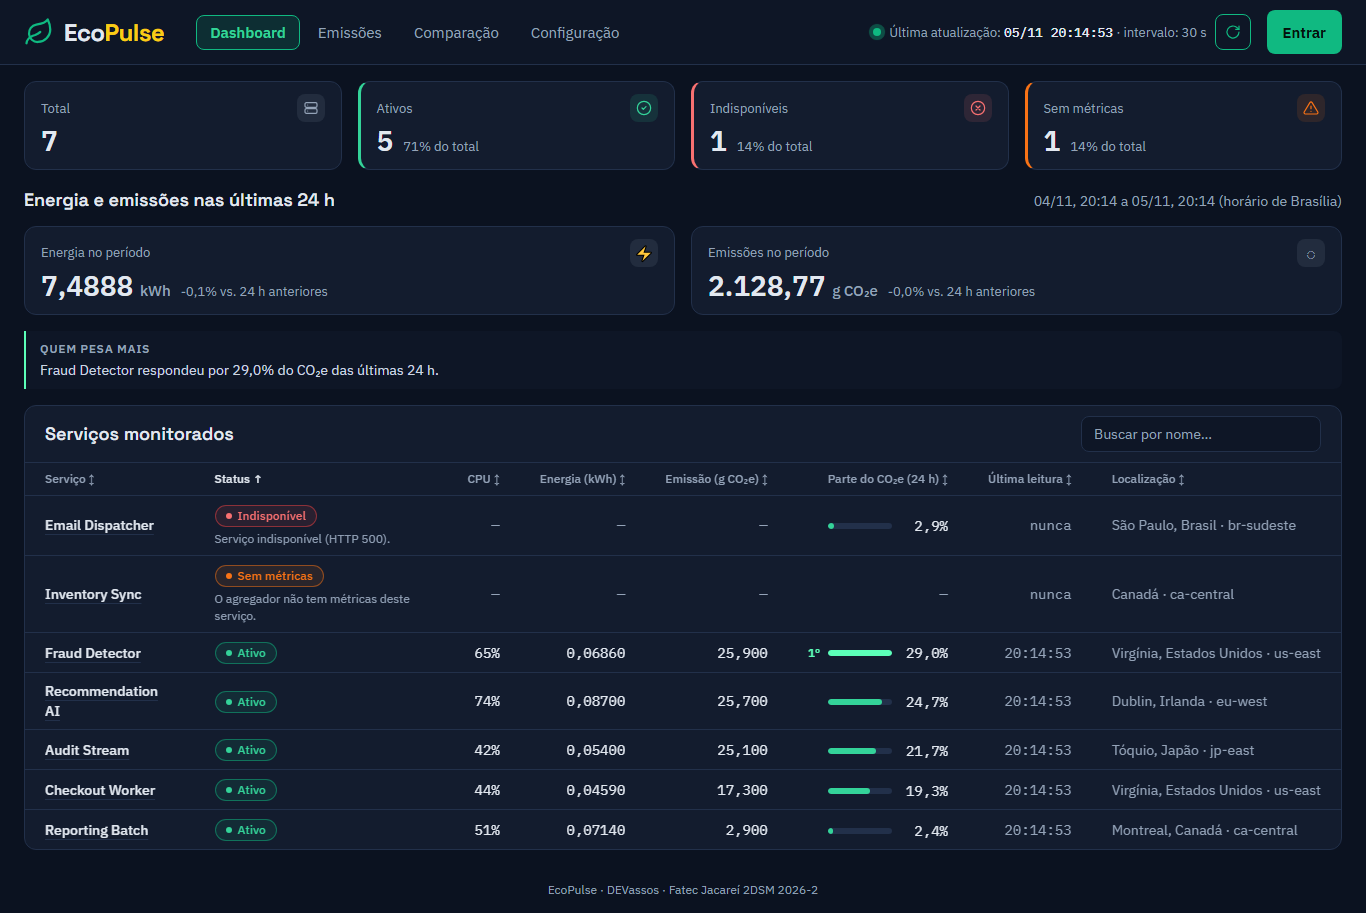
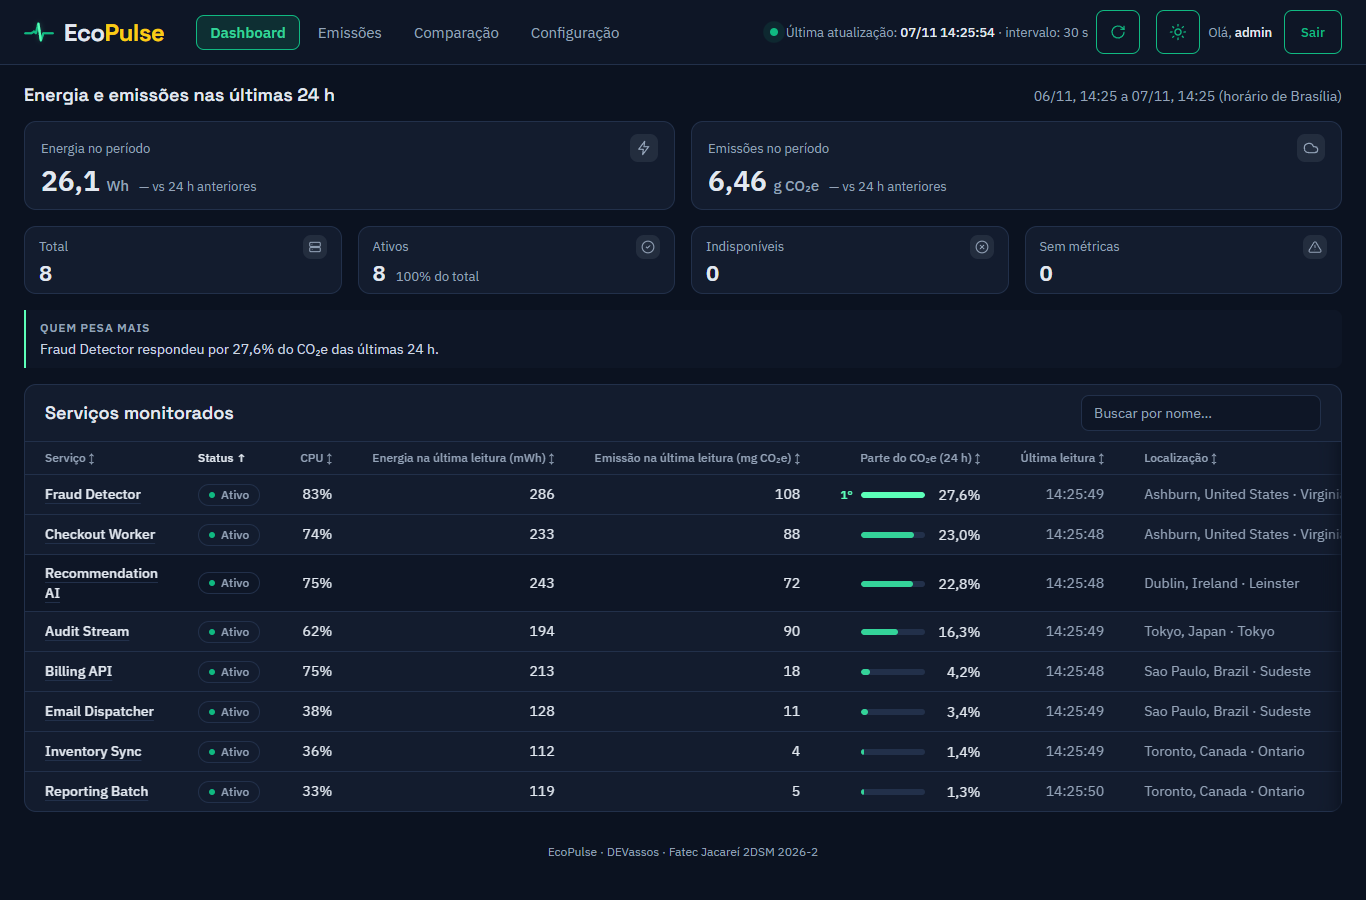
docs(frontend): ranking no backend real e print novo (#260) [RF14]
O README raiz dizia que a tela dependia do backend falso; a rota
entrou pelo PR #291. O print e a legenda passam a ser do compose em
07/11. No frontend/README, os passos 7, 9, 70 e 72 descrevem o que a
tela mostra ("—" com a dica ao passar o mouse, cinza com o backend
parado, ranking não pedido no cenário erro) e a soma de 100,0%.

diff --git a/frontend/README.md b/frontend/README.md
@@ -120,12 +120,12 @@ A API devolve energia em kWh e CO₂e em gramas. A tela escolhe a unidade em `sr
 ## Parte do CO₂e nas últimas 24 h (RF14, #260)
 
 - A tabela tem a coluna **Parte do CO₂e (24 h)**: quanto cada serviço respondeu do CO₂e das últimas 24 h. Ela vem de `GET /api/services/ranking?metric=co2e&from=&to=` (contrato aprovado na #50), buscada por `fetchServicesRanking` (`src/services/ranking.service.ts`) a cada ciclo do polling, no mesmo período do painel de indicadores.
-- `utils/ranking.ts` divide o CO₂e de cada serviço pela soma dos serviços com cálculo, então as partes somam 100% (com uma casa, ±0,1). Serviço sem cálculo no período mostra "—" e não entra na soma; com total zero, todos os que têm coleta no período aparecem com 0,0%, porque é um cálculo válido.
+- `utils/ranking.ts` divide o CO₂e de cada serviço pela soma dos serviços com cálculo e arredonda as partes a uma casa pelo método do maior resto, então a coluna exibida soma exatamente 100,0% (arredondar linha a linha poderia dar 99,9 ou 100,1 com 8 serviços). Serviço sem cálculo no período mostra "—" e não entra na soma; com total zero, todos os que têm coleta no período aparecem com 0,0%, porque é um cálculo válido.
 - A barra segue `docs/identidade-visual.md` § Barras de ranking: trilho em `--border`, barra em `--accent-hover`, e o 1º lugar em `--neon` com o rótulo **1º**. A barra é proporcional ao 1º, que fica cheio; o número ao lado é a parte no total.
 - Acima da tabela, **Quem pesa mais** diz, com o período: "Fraud Detector respondeu por 29,0% do CO₂e das últimas 24 h.", e some quando a parte é 0,0%.
 - **Três ausências diferentes**, cada uma com o seu texto: "ranking do período indisponível" (a busca do ranking falhou e não houve resposta anterior), "serviço fora do ranking" (a resposta do período não trouxe o serviço) e "sem cálculo no período" (o serviço está no ranking, sem CO₂e calculado nas 24 h). O tooltip repete a explicação de cada uma.
 - **Ordem estável:** a ordem inicial continua pela gravidade do estado (#203), mas, dentro do mesmo estado, segue o CO₂e das 24 h, não a leitura instantânea, que mudava a cada 30 s. O nome desempata. Enquanto o ranking não chega, vale a emissão da última leitura. Clicar no cabeçalho **Parte do CO₂e (24 h)** ordena pelo período, e as linhas sem parte ficam no fim nas duas ordens.
-- A resposta é conferida como as outras (#161): um campo fora do contrato — inclusive `metric` diferente da pedida — recusa o ranking inteiro, com o `ErrorState` e **Tentar novamente**. Numa falha do ranking com resposta anterior na tela, a última parte continua em cinza, sem o neon, a frase perde o destaque e o aviso começa com "Ranking de CO₂e do período: ", para não se confundir com a falha da lista de serviços.
+- A resposta é conferida como as outras (#161): um campo fora do contrato — inclusive `metric` diferente da pedida — recusa o ranking inteiro, com o `ErrorState` e **Tentar novamente**. As posições também são conferidas: quem tem a métrica vem primeiro, com 1, 2, 3… na ordem da lista e valores que não crescem, e quem não tem fica no fim com `position: null`; senão o "1º" iria para uma linha sem a barra cheia. Numa falha do ranking com resposta anterior na tela, a última parte continua em cinza, sem o neon, a frase perde o destaque e o aviso começa com "Ranking de CO₂e do período: ", para não se confundir com a falha da lista de serviços. Quando é a lista que falha (backend fora do ar), o ranking não é buscado de novo, e a coluna e a frase ficam em cinza do mesmo jeito, junto com os outros números da tabela (#261).
 - No modo demonstração, o ranking sai da leitura ilustrativa de cada serviço, como se ela se repetisse a cada 30 s nas 24 h.
 
 ## Página Emissões (#190)
@@ -257,9 +257,9 @@ npm run mock        # backend falso em http://localhost:3000 (desenvolvimento)
 4. Na raiz, `cp .env.example .env`. Em um terminal `npm run mock`; em outro `npm run dev` → a tela de login abre. Entrar com `admin@ecopulse.local` / `admin1234` (nos passos seguintes com o mock ou o backend real, a sessão já está aberta; se o mock for reiniciado, entrar de novo) → a faixa some e a tabela mostra os serviços de `GET /api/services` (o terminal do mock registra a chamada como `GET /services`, sem o prefixo `/api`). Abaixo dos cards de estado, o painel **Energia e emissões nas últimas 24 h** mostra os totais do mock com a variação, sem nenhum aviso de erro.
 5. Na tabela: cada serviço aparece com região, cidade/país e status (Ativo, Indisponível, Sem métricas); sem métrica aparece "—". Localização mostra só as partes informadas (sem ", null"); sem nenhuma, aparece "—" e o serviço fica no fim ao ordenar por Localização. Com o backend real há um quarto status, **Removido**: o serviço saiu da lista de `GET /services` do agregador na última descoberta do worker e volta a Ativo quando reaparece. O backend falso não tem esse caso.
 6. Digitar "check" na busca → só **Checkout Worker**; buscar algo inexistente → "Nenhum serviço com … no nome". Com 390 px de largura → cada serviço mostra a emissão da última leitura sob o nome ("0,449 g CO₂e"), a borda direita da tabela tem uma sombra enquanto há colunas escondidas e ela some ao rolar até o fim; o selo mostra "intervalo: 30 s" e o horário sem quebrar no meio (#263).
-7. Ao abrir, a tabela já vem ordenada por gravidade: Status do mais grave para o menos grave (Indisponível, Sem métricas, Ativo, Removido), com desempate pela maior emissão. O título **Status** mostra ↑ (`aria-sort="ascending"`), e as duas primeiras linhas são **Email Dispatcher** (Indisponível) e **Inventory Sync** (Sem métricas). Clicar nos títulos das colunas (Serviço, Status, CPU, Energia, Emissão, Última leitura, Localização) → ordena; clicar de novo inverte; serviços sem métrica ficam sempre no fim. Localização ordena pela região (depois país e cidade). Ordenar por **Emissão**, nos dois sentidos → um serviço **Removido** fica sempre na última linha, com os números em cinza. Com a tela aberta, parar o backend (`docker compose stop backend`) e clicar em **Atualizar agora** → além da faixa laranja, os números da tabela ficam em cinza; `docker compose start backend` e **Tentar novamente** → voltam à cor normal (#261).
+7. Ao abrir, a tabela já vem ordenada por gravidade: Status do mais grave para o menos grave (Indisponível, Sem métricas, Ativo, Removido), com desempate pela maior emissão. O título **Status** mostra ↑ (`aria-sort="ascending"`), e as duas primeiras linhas são **Email Dispatcher** (Indisponível) e **Inventory Sync** (Sem métricas). Clicar nos títulos das colunas (Serviço, Status, CPU, Energia, Emissão, Última leitura, Localização) → ordena; clicar de novo inverte; serviços sem métrica ficam sempre no fim. Localização ordena pela região (depois país e cidade). Ordenar por **Emissão**, nos dois sentidos → um serviço **Removido** fica sempre na última linha, com os números em cinza. Com a tela aberta, parar o backend (`docker compose stop backend`) e clicar em **Atualizar agora** → além da faixa laranja, os números da tabela ficam em cinza, inclusive a coluna **Parte do CO₂e (24 h)**, sem o neon do 1º, e a frase **Quem pesa mais** perde a borda verde; `docker compose start backend` e **Tentar novamente** → voltam à cor normal (#261, #260).
 8. `MOCK_SERVICES=vazio npm run mock` e recarregar → "Nenhum serviço monitorado ainda".
-9. `MOCK_SERVICES=erro npm run mock` e recarregar → sem nenhum dado na tela, aparece um aviso grande "Falha simulada no backend falso." (a mensagem vem do corpo do erro) com **Tentar novamente**: a lista de serviços, o painel de indicadores e o ranking de CO₂e falham juntos, como no backend real com o banco fora do ar, e o aviso é um só (#271).
+9. `MOCK_SERVICES=erro npm run mock` e recarregar → sem nenhum dado na tela, aparece um aviso grande "Falha simulada no backend falso." (a mensagem vem do corpo do erro) com **Tentar novamente**: a lista de serviços e o painel de indicadores falham juntos, como no backend real com o banco fora do ar, e o aviso é um só (#271). O ranking de CO₂e nem é pedido, porque espera a primeira lista: o terminal do mock não registra `GET /services/ranking`.
 10. Com dados carregados, o cabeçalho mostra o selo **"Última atualização: dd/mm HH:MM:SS"** com um ponto verde pulsando (sistema ativo); com "reduzir movimento" ligado no sistema, o ponto fica parado. A cada horário novo no selo, o logo pulsa uma vez: a folha vira uma linha de batimento com brilho neon e volta (cerca de 2,4 s). Ele não pulsa quando a atualização falha, em **Configuração** (sem polling) nem com "reduzir movimento", e dois cliques seguidos em **Atualizar agora** não reiniciam o pulso no meio. Apertar Tab logo depois de abrir a página → aparece **Pular para o conteúdo** no canto; Enter leva o foco ao conteúdo, pulando o menu (#262).
 11. Com o mock no ar, carregar o dashboard, depois subir o mock com `MOCK_SERVICES=erro` e clicar em **Atualizar agora** → os dados continuam na tela, o selo fica laranja (**"Desatualizado desde …"**) e, acima dos cards, aparece a faixa compacta laranja "Falha simulada no backend falso. Mostrando dados de HH:MM:SS." com **Tentar novamente**, no lugar do aviso grande.
 12. Com o mock no ar com `MOCK_REFRESH_INTERVAL_SECONDS=5 npm run mock` (PowerShell: `$env:MOCK_REFRESH_INTERVAL_SECONDS='5'; npm run mock`): a cada 5 s o horário do selo muda e o terminal do mock registra um novo `GET /services`; os valores de CPU e energia mudam na tabela **sem recarregar a página**. O selo mostra "intervalo: 5 s".
@@ -322,6 +322,6 @@ npm run mock        # backend falso em http://localhost:3000 (desenvolvimento)
 67. Em `/comparacao` e `/emissoes` → energia em ciano e CO₂e em verde nos dois lugares; só o maior CO₂e da Comparação fica laranja, e a média do gráfico de Emissões é uma linha cinza tracejada.
 68. Com o `.env` do passo 4, `MOCK_SERVICES=resumo-texto npm run mock` e recarregar o dashboard → o painel de energia e emissões some e, numa faixa no topo da página (acima dos cards de estado), aparece "O servidor respondeu num formato inesperado (energyKwh). Avise a equipe do backend." com **Tentar novamente**; a tabela e os cards de estado continuam normais.
 69. `MOCK_SERVICES=comparacao-sem-id npm run mock`, abrir **Comparação**, marcar dois serviços e clicar em **Comparar** → "O servidor respondeu num formato inesperado (services[0].id)…", sem tabela nem gráficos. Com o mock normal, o painel do dashboard e a comparação voltam a aparecer como antes.
-70. Com o `.env` do passo 4 e o mock normal no ar, abrir o dashboard → a tabela tem a coluna **Parte do CO₂e (24 h)**: a soma das porcentagens dá 100% (±0,1), o **Fraud Detector** traz o rótulo **1º** com a barra cheia em neon, e o **Inventory Sync** mostra "sem cálculo no período" (serviço que está no ranking e não tem CO₂e calculado nas 24 h). Acima da tabela, **Quem pesa mais** diz "Fraud Detector respondeu por 29,0% do CO₂e das últimas 24 h.", com a mesma porcentagem da coluna. O terminal do mock registra `GET /services/ranking` a cada ciclo (#260).
+70. Com o `.env` do passo 4 e o mock normal no ar, abrir o dashboard → a tabela tem a coluna **Parte do CO₂e (24 h)**: a soma das porcentagens dá 100,0%, o **Fraud Detector** traz o rótulo **1º** com a barra cheia em neon, e o **Inventory Sync** mostra "—" e, ao passar o mouse, "No ranking, mas sem CO₂e calculado nas últimas 24 h" (o leitor de tela lê "sem cálculo no período"). Acima da tabela, **Quem pesa mais** diz "Fraud Detector respondeu por 29,0% do CO₂e das últimas 24 h.", com a mesma porcentagem da coluna. O terminal do mock registra `GET /services/ranking` a cada ciclo (#260).
 71. Clicar em **Atualizar agora** duas vezes → a ordem das linhas não muda. Clicar no cabeçalho **Parte do CO₂e (24 h)** → a tabela ordena do maior para o menor e, no segundo clique, do menor para o maior; as linhas sem parte ficam no fim nas duas ordens.
-72. Parar o mock e subir `MOCK_SERVICES=ranking-instavel npm run mock`, entrar de novo (reiniciar o mock invalida a sessão, #257) e abrir o dashboard → as partes aparecem na primeira carga e, no ciclo seguinte, ficam cinzas e sem neon, a frase **Quem pesa mais** perde o destaque e o aviso "Ranking de CO₂e do período: …" aparece com **Tentar novamente**, com a tabela intacta. Com `MOCK_SERVICES=ranking-falha`, a coluna mostra "ranking do período indisponível" desde a primeira carga e o restante do painel continua funcionando.
+72. Parar o mock e subir `MOCK_SERVICES=ranking-instavel npm run mock`, entrar de novo (reiniciar o mock invalida a sessão, #257) e abrir o dashboard **sem recarregar a página** (só a primeira chamada do ranking responde; recarregar a gasta e a coluna cai direto em "—") → as partes aparecem na primeira carga e, no ciclo seguinte, ficam cinzas e sem neon, a frase **Quem pesa mais** perde o destaque e o aviso "Ranking de CO₂e do período: …" aparece com **Tentar novamente**, com a tabela intacta. Com `MOCK_SERVICES=ranking-falha`, a coluna mostra "—" em todas as linhas desde a primeira carga e, ao passar o mouse, "Ranking de CO₂e das últimas 24 h indisponível: a coluna volta na próxima atualização" (o leitor de tela lê "ranking do período indisponível"); não há frase **Quem pesa mais**, e o restante do painel continua funcionando.

diff --git a/README.md b/README.md
@@ -66,11 +66,11 @@ O desenvolvimento acontece na branch `develop`; cada funcionalidade entra nesta 
 
   _Dashboard com o backend real (`docker compose`) em 06/11/2026, 10h02: 1,05 kWh e 258 g CO₂e nas últimas 24 h, na unidade que o valor pede, com "▼ 21,4%" e "▼ 22,1%" em verde, porque energia e CO₂e caíram em relação às 24 h anteriores (#271)._
 
-- **RF14 — Quem pesa mais no CO₂e (#260):** a tabela de serviços mostra a parte de cada serviço no CO₂e das últimas 24 h, com barra (o 1º lugar em neon e com o rótulo "1º"), e a frase acima dela diz quem respondeu por mais. Dentro de cada estado, a ordem segue o período e não muda a cada leitura. A API é `GET /api/services/ranking?metric=co2e&from=&to=`, com o contrato aprovado na #50; até o backend dela entrar, a tela funciona com o backend falso (`npm run mock`).
+- **RF14 — Quem pesa mais no CO₂e (#260):** a tabela de serviços mostra a parte de cada serviço no CO₂e das últimas 24 h, com barra (o 1º lugar em neon e com o rótulo "1º"), e a frase acima dela diz quem respondeu por mais. Dentro de cada estado, a ordem segue o período e não muda a cada leitura. As partes exibidas somam 100,0%, e a coluna e a frase ficam em cinza quando a última busca falha. A API é `GET /api/services/ranking?metric=co2e&from=&to=`, com o contrato aprovado na #50 e implementada na #287 (PR #291).
 
   ![Coluna Parte do CO₂e e frase "Quem pesa mais" no dashboard](docs/img/sprint-2-ranking-co2e.png)
 
-  _Dashboard com o backend falso (`npm run mock`) em 05/11/2026: o Fraud Detector respondeu por 29,0% do CO₂e das últimas 24 h._
+  _Dashboard com o backend real (`docker compose`) em 07/11/2026, 14h25, num banco novo com poucos minutos de coletas do agregador: o Fraud Detector respondeu por 27,6% do CO₂e das últimas 24 h, e a coluna soma 100,0%._
 
 - **RNF02 — Indicador de última atualização (#89):** selo no cabeçalho com o horário da última busca bem-sucedida e um ponto verde pulsando enquanto os dados estão em dia; se uma busca falha, ele fica laranja e passa a dizer "Desatualizado desde …", sem apagar os dados da tela.
 
